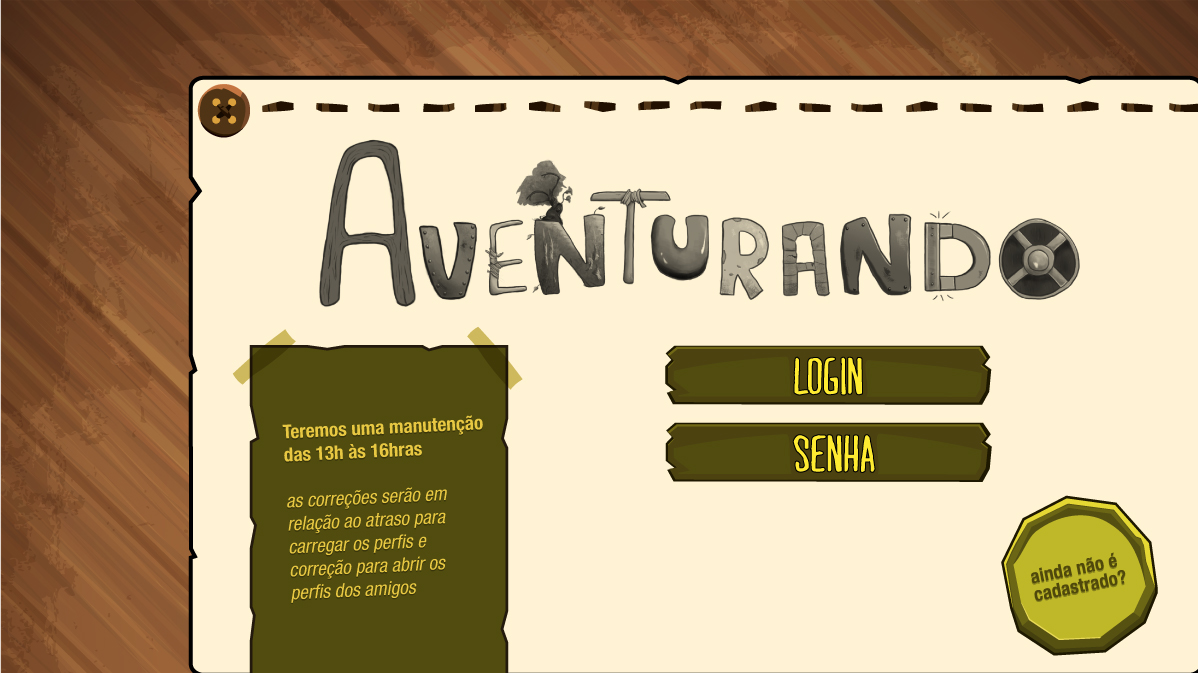
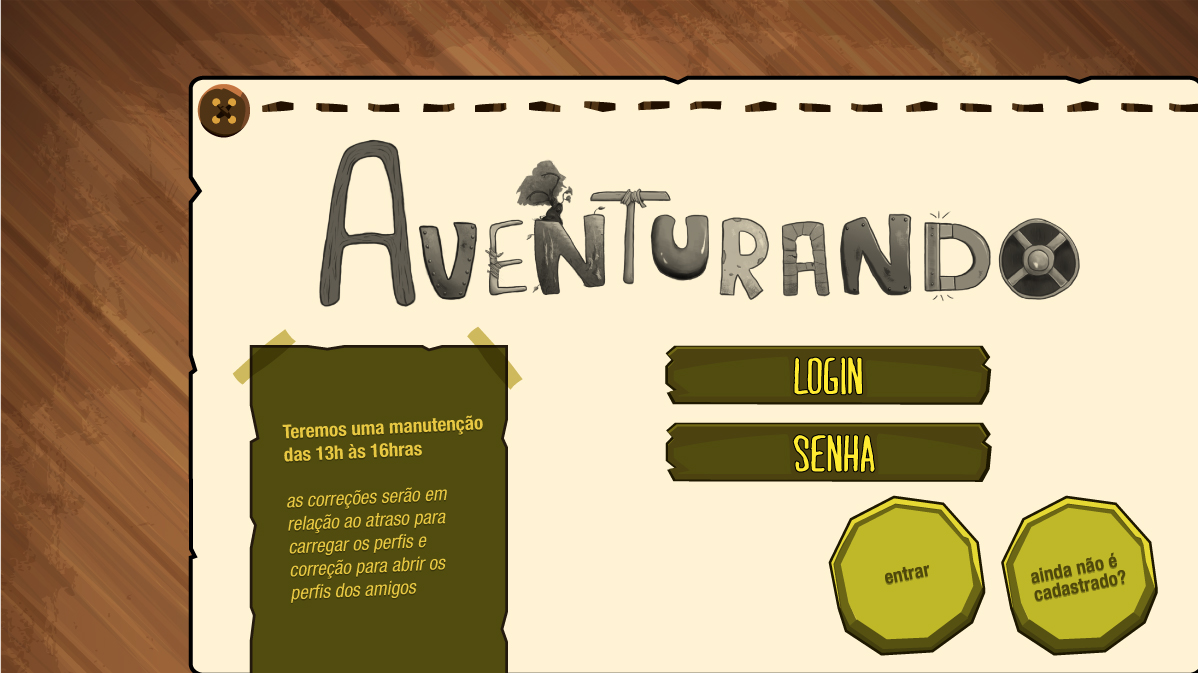
Mais telas

Changed region(s): [[0.6795, 0.7177, 0.8648, 0.9985], [0.9265, 0.7801, 0.9574, 0.8425], [0.8648, 0.7489, 0.9265, 0.7801]]

diff --git a/mapas.html b/mapas.html
@@ -10,25 +10,25 @@
             .button{opacity:0}
 
             /* Mapas */
-            .button1{
-                top: 25%;
-                left: 29%;
+            /*.button1{
+                top: 23%;
+                left: 27%;
                 height: 39%;
                 width: 25%;
-            }
+            }*/
 
             /* Aventureiro */
-            .button2{
+            /*.button2{
                 top: 24%;
                 left: 64%;
                 height: 50%;
                 width: 23%;
-            }
+            }*/
 
             /* Fechar */
             .button3{
-                top: 6%;
-                left: 87%;
+                top: 4%;
+                left: 86%;
                 height: 21%;
                 width: 12%;
             }
@@ -38,15 +38,15 @@
         <div class="center-child wrapper">
 
             <!-- Mapas -->
-            <a href="mapas.html" class="button button1"></a>
+            <!--<a href="" class="button button1"></a>-->
 
             <!-- Aventureiro -->
-            <a href="aventura-classe.html" class="button button2"></a>
+            <!--<a href="aventura-classe.html" class="button button2"></a>-->
 
             <!-- Fechar -->
-            <a href="aventuras.html" class="button button3"></a>
+            <a href="aventura.html" class="button button3"></a>
             
-            <img class="wrapper-img" src="assets/imgs/avent_04.jpg" />
+            <img class="wrapper-img" src="assets/imgs/avent_14.jpg" />
         </div>
     </body>
 </html>

diff --git a/index.html b/index.html
@@ -8,7 +8,7 @@
 
         <style>
             .button{opacity:0}
-            .button1{
+            /*.button1{
                 top: 51%;
                 left: 55%;
                 height: 9%;
@@ -19,13 +19,28 @@
                 left: 55%;
                 height: 9%;
                 width: 29%;
+            }*/
+            .button3{
+                top: 72%;
+                left: 68%;
+                height: 25%;
+                width: 14%;
+            }
+            .button4{
+                top: 72%;
+                left: 83%;
+                height: 25%;
+                width: 14%;
             }
         </style>
     </head>
     <body class="center-parent">
         <div class="center-child wrapper">
-            <a href="selecao-aventuras-amigos.html" class="button button1"></a>
-            <a href="selecao-aventuras-amigos.html" class="button button2"></a>
+            <!--<a href="selecao-aventuras-amigos.html" class="button button1"></a>
+            <a href="selecao-aventuras-amigos.html" class="button button2"></a>-->
+            
+            <a href="selecao-aventuras-amigos.html" class="button button3"></a>
+            <a href="cadastro.html" class="button button4"></a>
             <img class="wrapper-img" src="assets/imgs/avent_01.jpg" />
         </div>
     </body>

diff --git a/aventuras.html b/aventuras.html
@@ -24,7 +24,7 @@
             }
 
             /* Adicionar aventuras */
-            .button3{
+            .button8{
                 top: 59%;
                 left: 40%;
                 height: 41%;
@@ -56,6 +56,14 @@
                 height: 20%;
                 width: 35%;
             }
+            
+            /* Fechar */
+            .button3{
+                top: 0%;
+                left: 88%;
+                height: 21%;
+                width: 12%;
+            }
         </style>
     </head>
     <body class="center-parent">
@@ -64,9 +72,12 @@
             <!-- Setas -->
             <a href="" class="button button1"></a>
             <a href="" class="button button2"></a>
+            
+            <!-- Fechar -->
+            <a href="selecao-aventuras-amigos.html" class="button button3"></a>
 
             <!-- Adicionar aventuras -->
-            <a href="" class="button button3"></a>
+            <a href="" class="button button8"></a>
             
             <!-- Aventuras -->
             <a href="aventura.html" class="button button4"></a>

diff --git a/procurar.html b/procurar.html
@@ -1,0 +1,40 @@
+<!DOCTYPE html>
+<html>
+    <head>
+        <title>AVENTURANDO - Procurar</title>
+        <meta charset="UTF-8">
+        <meta name="viewport" content="width=device-width, initial-scale=1.0">
+        <link rel="stylesheet" href="assets/css/style.css">
+
+        <style>
+            .button{opacity:0}
+
+            .button1{
+                top: 74%;
+                left: 52%;
+                height: 13%;
+                width: 23%;
+            }
+
+            /* Voltar */
+            .button3{
+                top: 75%;
+                left: 15%;
+                height: 24%;
+                width: 12%;
+            }
+        </style>
+    </head>
+    <body class="center-parent">
+        <div class="center-child wrapper">
+
+            <a href="procurar-encontrado.html" class="button button1"></a>
+
+
+            <!-- Voltar -->
+            <a href="amigos.html" class="button button3"></a>
+
+            <img class="wrapper-img" src="assets/imgs/avent_12.jpg" />
+        </div>
+    </body>
+</html>

diff --git a/procurar-encontrado.html b/procurar-encontrado.html
@@ -1,0 +1,39 @@
+<!DOCTYPE html>
+<html>
+    <head>
+        <title>AVENTURANDO - Procurar</title>
+        <meta charset="UTF-8">
+        <meta name="viewport" content="width=device-width, initial-scale=1.0">
+        <link rel="stylesheet" href="assets/css/style.css">
+
+        <style>
+            .button{opacity:0}
+
+            .button1{
+                top: 63%;
+                left: 36%;
+                height: 13%;
+                width: 23%;
+            }
+
+            /* Voltar */
+            .button3{
+                top: 75%;
+                left: 15%;
+                height: 24%;
+                width: 12%;
+            }
+        </style>
+    </head>
+    <body class="center-parent">
+        <div class="center-child wrapper">
+
+            <a href="amigos.html" class="button button1"></a>
+
+            <!-- Voltar -->
+            <a href="procurar.html" class="button button3"></a>
+
+            <img class="wrapper-img" src="assets/imgs/avent_13.jpg" />
+        </div>
+    </body>
+</html>

diff --git a/amigos.html b/amigos.html
@@ -8,12 +8,20 @@
 
         <style>
             .button{opacity:0}
-            
+
             .button1{
                 top: 18%;
                 left: 29%;
                 height: 21%;
                 width: 21%;
+            }
+
+            /* procurar */
+            .button2{
+                top: 75%;
+                left: 50%;
+                height: 21%;
+                width: 24%;
             }
 
             /* Voltar */
@@ -27,12 +35,14 @@
     </head>
     <body class="center-parent">
         <div class="center-child wrapper">
-            
+
             <a href="amigos-amigo.html" class="button button1"></a>
+
+            <a href="procurar.html" class="button button2"></a>
 
             <!-- Voltar -->
             <a href="selecao-aventuras-amigos.html" class="button button3"></a>
-            
+
             <img class="wrapper-img" src="assets/imgs/avent_05.jpg" />
         </div>
     </body>

diff --git a/cadastro.html b/cadastro.html
@@ -1,0 +1,25 @@
+<!DOCTYPE html>
+<html>
+    <head>
+        <title>AVENTURANDO - Pag inicial</title>
+        <meta charset="UTF-8">
+        <meta name="viewport" content="width=device-width, initial-scale=1.0">
+        <link rel="stylesheet" href="assets/css/style.css">
+
+        <style>
+            .button{opacity:0}
+            .button1{
+                top: 72%;
+                left: 85%;
+                height: 26%;
+                width: 14%;
+            }
+        </style>
+    </head>
+    <body class="center-parent">
+        <div class="center-child wrapper">
+            <a href="index.html" class="button button1"></a>
+            <img class="wrapper-img" src="assets/imgs/avent_11.jpg" />
+        </div>
+    </body>
+</html>
